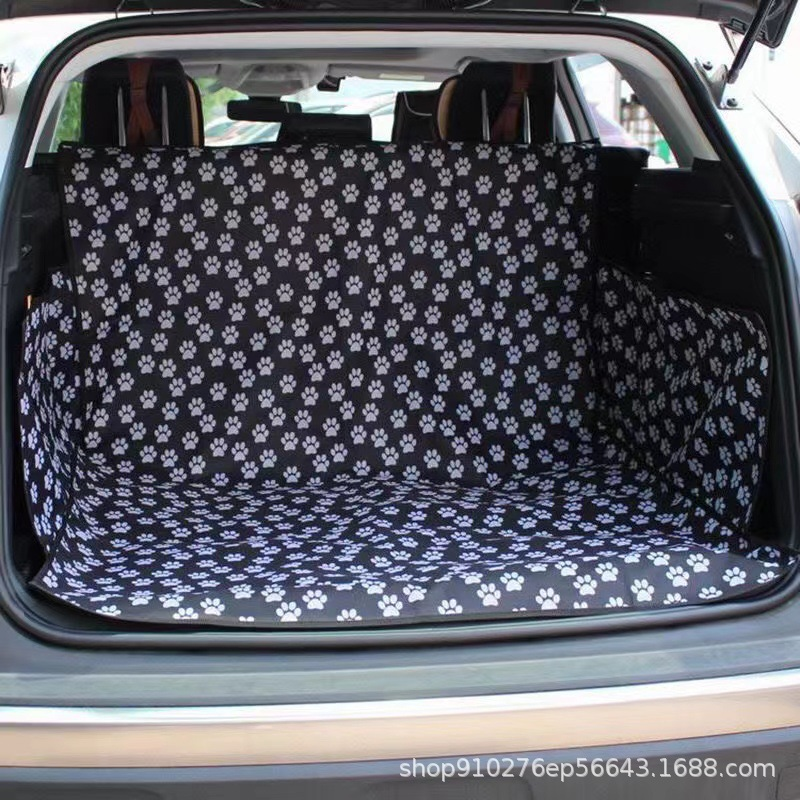
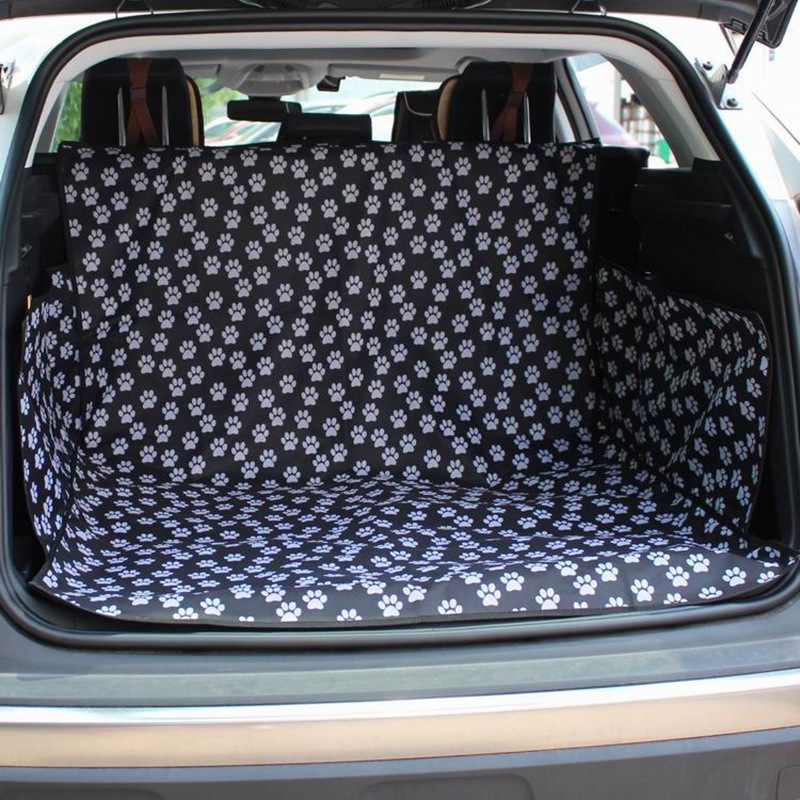
Update catalog from admin page

Changed region(s): [[0.5, 0.9375, 0.9688, 0.9688]]

diff --git a/assets/js/catalog.config.js b/assets/js/catalog.config.js
@@ -1153,9 +1153,16 @@ window.PET_CATALOG_CONFIG = {
             "assets/images/catalog/mj-06/1784888780802-mj-06-1.jpg",
             "assets/images/catalog/mj-06/1784888780802-mj-06-2.jpg",
             "assets/images/catalog/mj-06/1784888780802-mj-06-3.jpg",
-            "assets/images/catalog/mj-06/1784888780802-mj-06-4.jpg"
+            "assets/images/catalog/mj-06/1784888780802-mj-06-4.jpg",
+            "assets/images/catalog/mj-06/mj-06-1.jpg"
           ],
-          "description": "Pet Safety Car Seat Bed for Back Seat is designed for comfortable rest and home enrichment. A practical choice for pet owners and retail assortments."
+          "description": "Pet Safety Car Seat Bed for Back Seat is designed for comfortable rest and home enrichment. A practical choice for pet owners and retail assortments.",
+          "specifications": [
+            {
+              "label": "Dimensions",
+              "value": "40*32*22cm"
+            }
+          ]
         },
         {
           "code": "MJ-07",
@@ -1167,6 +1174,12 @@ window.PET_CATALOG_CONFIG = {
             "assets/images/catalog/mj-07/1784901675764-mj-07-2.jpg",
             "assets/images/catalog/mj-07/1784901675764-mj-07-3.jpg",
             "assets/images/catalog/mj-07/1784901675764-mj-07-4.jpg"
+          ],
+          "specifications": [
+            {
+              "label": "Dimensions",
+              "value": "140*135cm"
+            }
           ]
         },
         {
@@ -1240,9 +1253,16 @@ window.PET_CATALOG_CONFIG = {
             "assets/images/catalog/sa-03/1784888576585-sa-03-1.jpg",
             "assets/images/catalog/sa-03/1784888576585-sa-03-2.jpg",
             "assets/images/catalog/sa-03/1784888576585-sa-03-3.jpg",
-            "assets/images/catalog/sa-03/1784888576585-sa-03-4.jpg"
+            "assets/images/catalog/sa-03/1784888576585-sa-03-4.jpg",
+            "assets/images/catalog/sa-03/sa-03-1.jpg"
           ],
-          "description": "Lightweight Foldable Pet Backpack Carrier is designed for comfortable everyday travel with pets. The product listing highlights breathable material, a foldable design. A practical choice for pet owners and retail assortments."
+          "description": "Lightweight Foldable Pet Backpack Carrier is designed for comfortable everyday travel with pets. The product listing highlights breathable material, a foldable design. A practical choice for pet owners and retail assortments.",
+          "specifications": [
+            {
+              "label": "Dimensions",
+              "value": "85*60*45cm"
+            }
+          ]
         },
         {
           "code": "YW-03",
@@ -1274,9 +1294,16 @@ window.PET_CATALOG_CONFIG = {
           "images": [
             "assets/images/catalog/yw-05/1784888461159-yw-05-1.png",
             "assets/images/catalog/yw-05/1784888461159-yw-05-2.jpg",
-            "assets/images/catalog/yw-05/1784888461159-yw-05-3.jpg"
+            "assets/images/catalog/yw-05/1784888461159-yw-05-3.jpg",
+            "assets/images/catalog/yw-05/yw-05-1.jpg"
           ],
-          "description": "Full-Cover Front Seat Pet Car Cushion is designed for comfortable everyday travel with pets. The product listing highlights water-resistant construction. A practical choice for pet owners and retail assortments."
+          "description": "Full-Cover Front Seat Pet Car Cushion is designed for comfortable everyday travel with pets. The product listing highlights water-resistant construction. A practical choice for pet owners and retail assortments.",
+          "specifications": [
+            {
+              "label": "Dimensions",
+              "value": "57*50*24*42cm"
+            }
+          ]
         },
         {
           "code": "YW-06",
@@ -1305,12 +1332,6 @@ window.PET_CATALOG_CONFIG = {
           "name": "Foldable Waterproof Trunk Pet Cargo Liner",
           "image": "assets/images/catalog/yw-08/098-yw-08.png",
           "description": "Foldable Waterproof Trunk Pet Cargo Liner is designed for organized daily feeding and hydration. The product listing highlights water-resistant construction, a foldable design. A practical choice for pet owners and retail assortments."
-        },
-        {
-          "code": "YW-08",
-          "name": "Waterproof SUV Trunk Pet Cargo Liner",
-          "image": "assets/images/catalog/yw-08/099-yw-08.png",
-          "description": "Waterproof SUV Trunk Pet Cargo Liner is designed for organized daily feeding and hydration. The product listing highlights water-resistant construction, a foldable design. A practical choice for pet owners and retail assortments."
         }
       ]
     },
